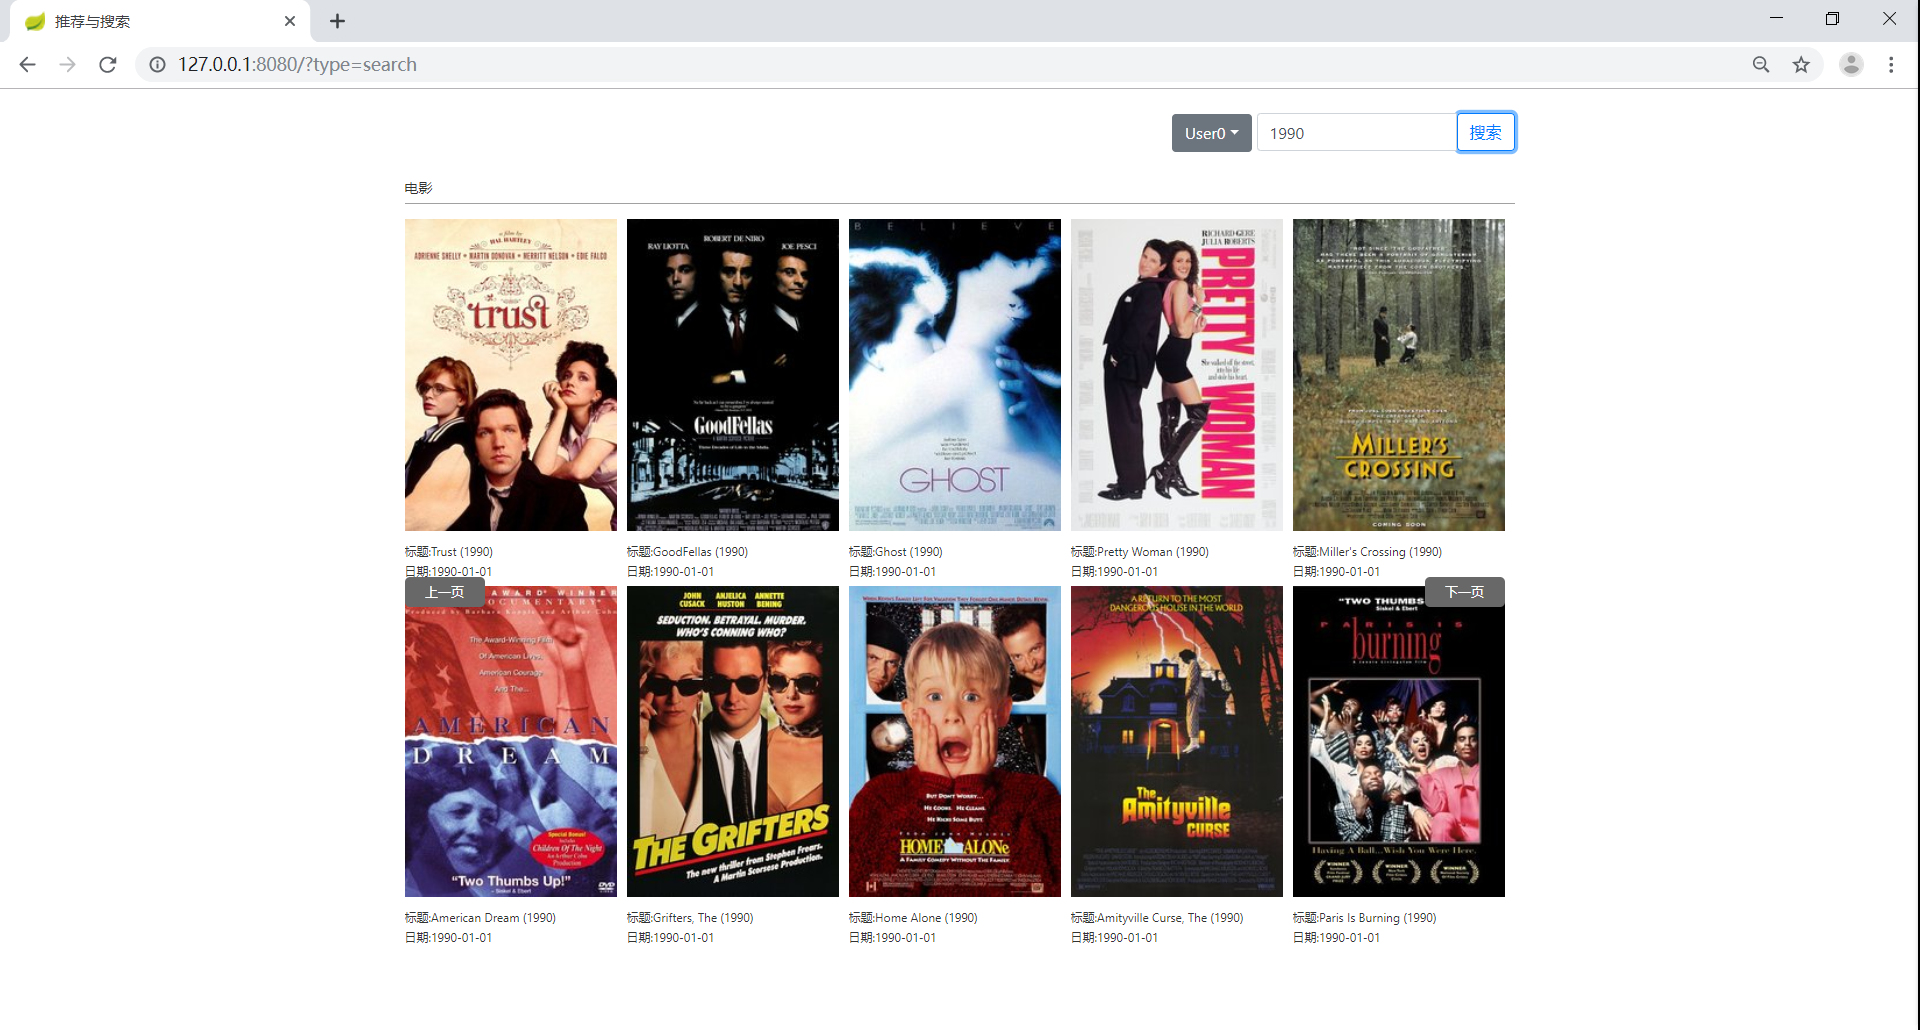
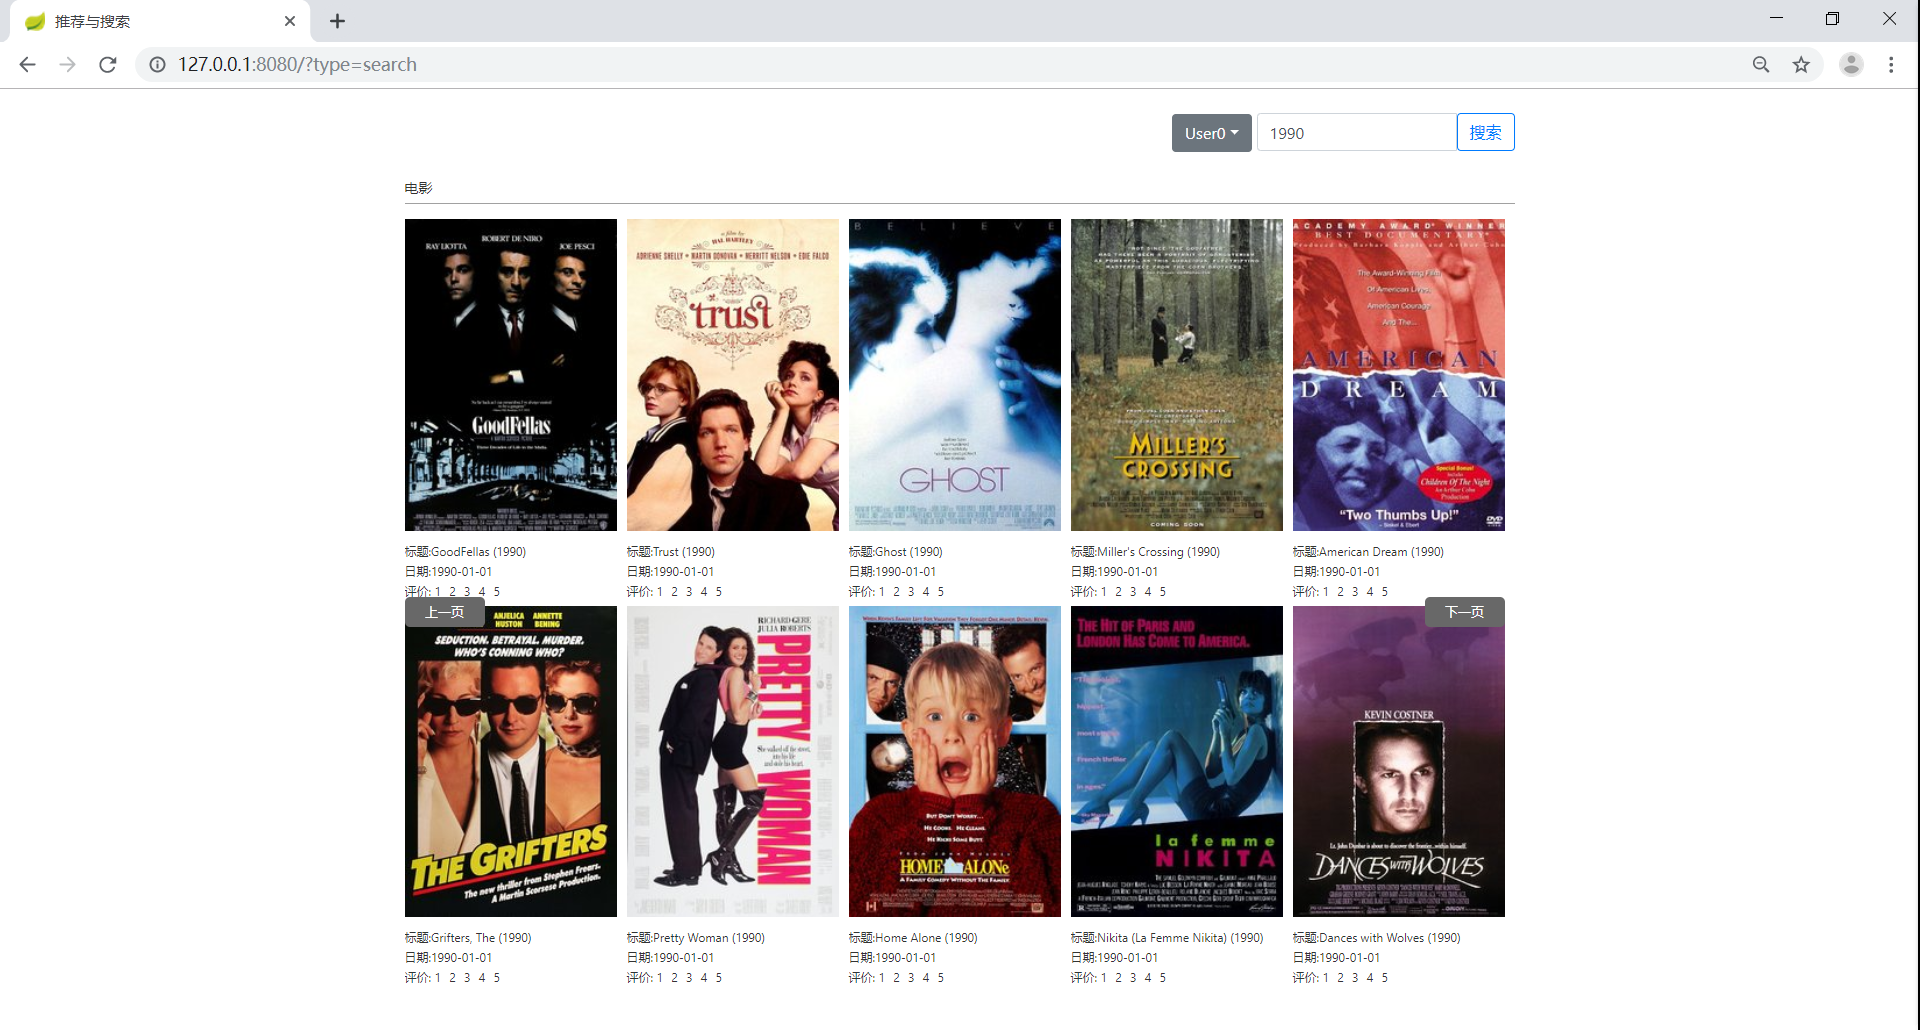
更新使用教程.

Changed region(s): [[0.1875, 0.1864, 0.7812, 0.9631]]

diff --git a/src/main/java/com/jstarcraft/example/movie/service/MovieService.java b/src/main/java/com/jstarcraft/example/movie/service/MovieService.java
@@ -58,7 +58,7 @@ public class MovieService {
     @Autowired
     private List<User> users;
 
-    /** 电影 */
+    /** 条目 */
     @Autowired
     private List<Item> items;
 

diff --git a/README.md b/README.md
@@ -21,6 +21,7 @@
     * [运行JStarCraft Example项目](#运行JStarCraft-Example项目)
     * [使用个性化推荐](#使用个性化推荐)
     * [使用个性化搜索](#使用个性化搜索)
+    * [根据行为记录自动调整模型](#根据行为记录自动调整模型)
 * [架构](#架构)
 * [概念](#概念)
 * [示例](#示例)
@@ -135,6 +136,10 @@ java -jar jstarcraft-example-1.0.jar
 
 搜索效果如图所示:
 ![search](https://github.com/HongZhaoHua/jstarcraft-example/blob/master/search.png)
+
+#### 根据行为记录自动调整模型
+
+用户可以通过点击对应的分数给电影打分,系统每隔5分钟会自动刷新模型.
 
 ****
 
